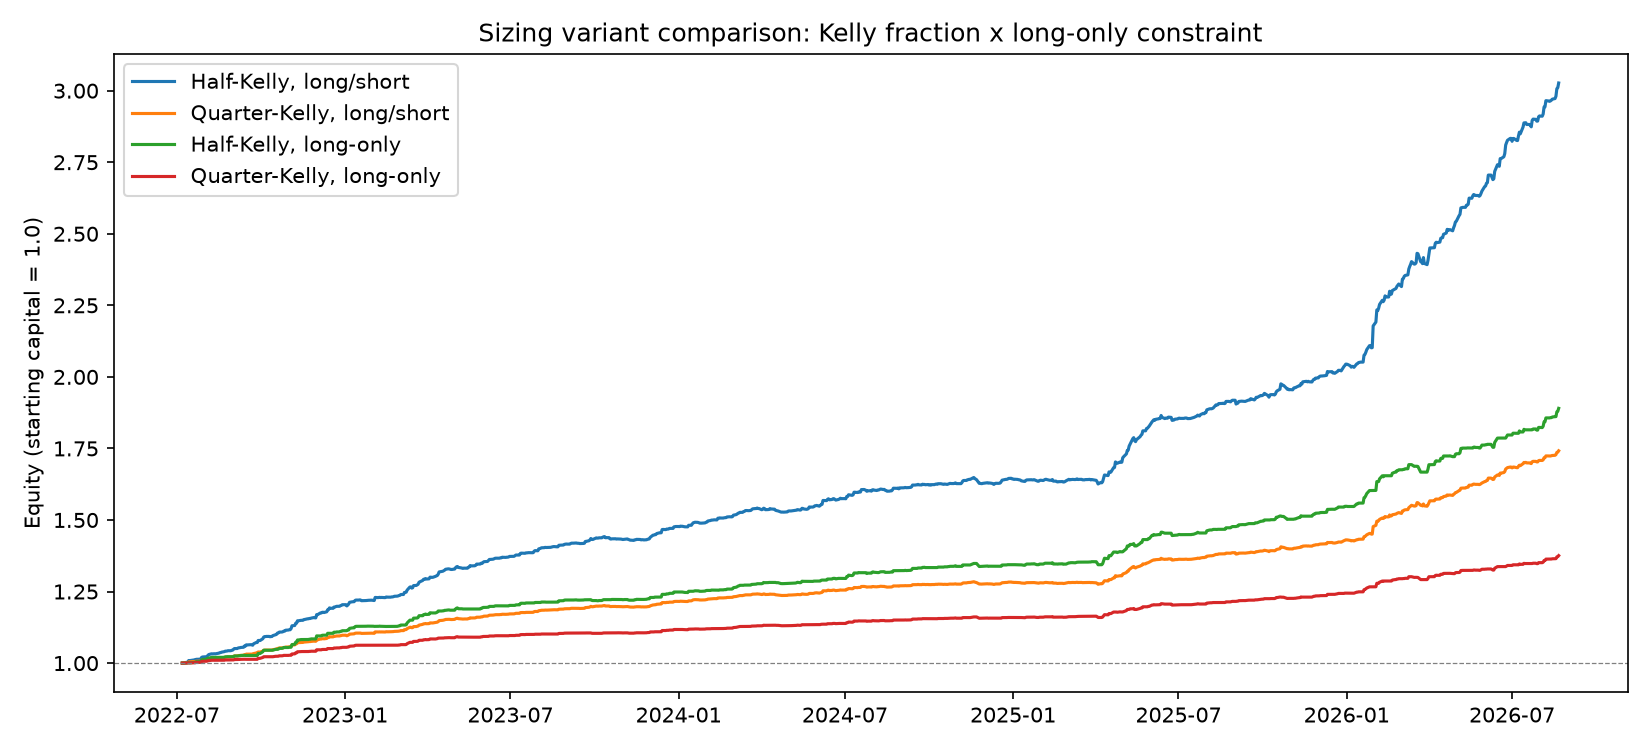
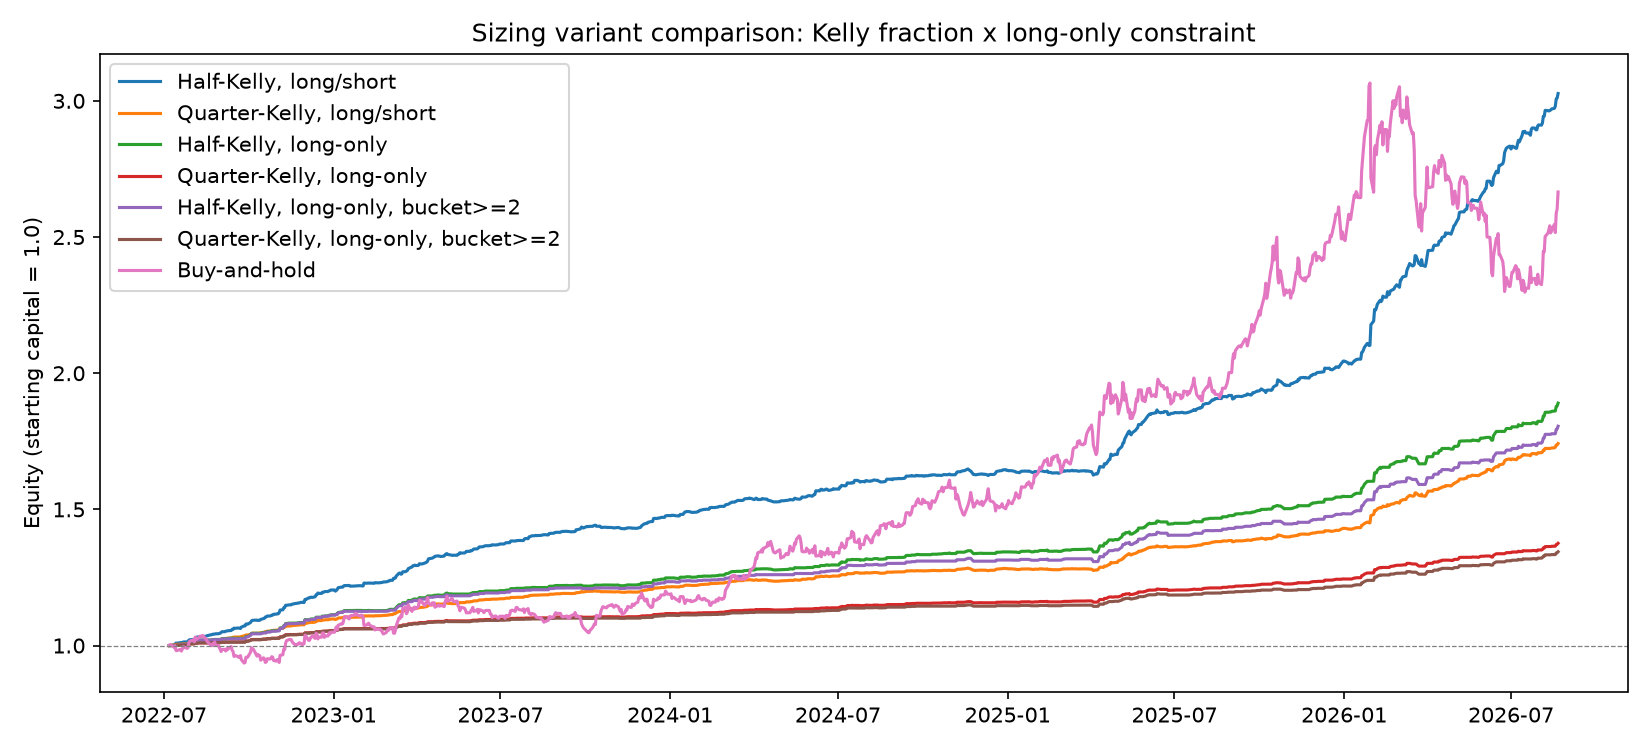
update sizing benchmark

diff --git a/tvp_sizing_variant.py b/tvp_sizing_variant.py
@@ -40,6 +40,7 @@ SIGMA_BETA = {"real_rate_diff": 0.000197, "usd_logret": 0.000622}
 # --- real calibration bucket edges + train hit rates (tvp_calibration.py) ---
 BUCKET_EDGES = [-np.inf, 0.099, 0.238, 0.402, 0.660, np.inf]
 BUCKET_HIT_RATES = [0.5870, 0.5819, 0.6678, 0.7305, 0.8179]
+LONG_ONLY_MIN_BUCKET = 2  # sit out buckets 0-1 entirely in long-only variants
 
 
 def bucket_for(z):
@@ -88,24 +89,30 @@ def main():
     test_hit_rate = hit_rate[test_slice]
 
     variants = {
-        "Half-Kelly, long/short":    (0.5,  False),
-        "Quarter-Kelly, long/short": (0.25, False),
-        "Half-Kelly, long-only":     (0.5,  True),
-        "Quarter-Kelly, long-only":  (0.25, True),
+        "Half-Kelly, long/short":              (0.5,  False, False),
+        "Quarter-Kelly, long/short":            (0.25, False, False),
+        "Half-Kelly, long-only":                (0.5,  True,  False),
+        "Quarter-Kelly, long-only":             (0.25, True,  False),
+        "Half-Kelly, long-only, bucket>=2":     (0.5,  True,  True),
+        "Quarter-Kelly, long-only, bucket>=2":  (0.25, True,  True),
     }
 
     print(f"--- Sizing variant comparison on holdout ({test_valid.sum()} valid obs) ---")
-    print(f"{'Variant':<30} {'Total ret':>10} {'Max DD':>10} {'Sharpe-like':>12} {'Days in market':>15}")
+    print(f"{'Variant':<38} {'Total ret':>10} {'Max DD':>10} {'Sharpe-like':>12} {'Days in market':>15}")
 
     equity_curves = {}
-    for name, (kelly_scale, long_only) in variants.items():
+    for name, (kelly_scale, long_only, min_bucket_filter) in variants.items():
         f_full = np.maximum(2 * test_hit_rate - 1, 0.0)
         f = f_full * kelly_scale
 
+        eligible = test_valid.copy()
+        if min_bucket_filter:
+            eligible = eligible & (bucket[test_slice] >= LONG_ONLY_MIN_BUCKET)
+
         if long_only:
-            position = np.where(test_valid & (test_sign > 0), f, 0.0)
+            position = np.where(eligible & (test_sign > 0), f, 0.0)
         else:
-            position = np.where(test_valid, f * test_sign, 0.0)
+            position = np.where(eligible, f * test_sign, 0.0)
 
         daily_ret = position * test_ret
         equity = np.cumprod(1 + daily_ret)
@@ -116,11 +123,29 @@ def main():
         sr = sharpe_like(pd.Series(daily_ret))
         days_in_market = (position != 0).mean()
 
-        print(f"{name:<30} {total_ret:>10.2%} {dd:>10.2%} {sr:>12.2f} {days_in_market:>14.1%}")
+        print(f"{name:<38} {total_ret:>10.2%} {dd:>10.2%} {sr:>12.2f} {days_in_market:>14.1%}")
+
+    # --- buy-and-hold benchmark: context only, not a fair comparison (no ---
+    # signal, no risk management, always fully exposed) but the reference
+    # point everything else should be judged against
+    bh_daily_ret = np.where(test_valid, test_ret, 0.0)
+    bh_equity = np.cumprod(1 + bh_daily_ret)
+    equity_curves["Buy-and-hold"] = bh_equity
+    bh_total_ret = bh_equity[-1] - 1
+    bh_dd = max_drawdown(bh_equity)
+    bh_sr = sharpe_like(pd.Series(bh_daily_ret))
+    print(f"{'Buy-and-hold':<38} {bh_total_ret:>10.2%} {bh_dd:>10.2%} {bh_sr:>12.2f} {'100.0%':>14}")
 
     print("\nRows 1 vs 2 isolate the Kelly-fraction effect (half vs quarter, both long/short).")
     print("Rows 1 vs 3 isolate the long-only effect (both half-Kelly).")
-    print("Row 4 is the realistic Roth IRA version: quarter-Kelly AND no shorting.")
+    print("Rows 3 vs 5 (and 4 vs 6) isolate the bucket>=2 filter effect: does sitting")
+    print("out low-confidence days entirely beat sizing them small but nonzero?")
+    print("Row 6 (quarter-Kelly, long-only, bucket>=2) is the closest match to")
+    print("'only bet when there's real edge, never short' -- the actual rule discussed.")
+    print("Buy-and-hold is context, not a fair fight: no signal, no risk management,")
+    print("always fully exposed. Judge everything else against it, but expect the")
+    print("sized strategies to win mainly on risk-adjusted terms (Sharpe, drawdown),")
+    print("not necessarily on raw total return every single time.")
 
     test_dates = df.index[split:]
     fig, ax = plt.subplots(figsize=(11, 5))
